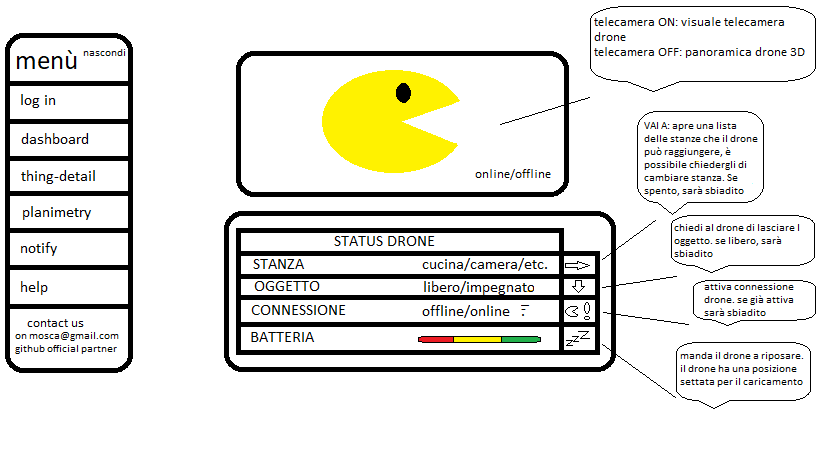
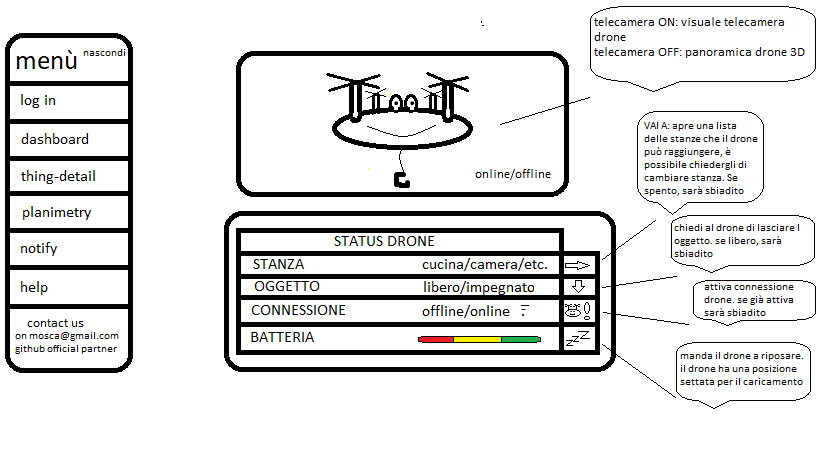
page form update

Changed region(s): [[0.3663, 0.1522, 0.58, 0.4261], [0.6716, 0.6696, 0.7021, 0.7]]

diff --git a/CODE/style.css b/CODE/style.css
@@ -5,60 +5,117 @@
   
 }
 body {
-       background: rgb(7, 22, 105);
+       background: rgb(25, 49, 180);
 }
 img{
     width: 60%;
     height: 40%;
 }
+.menù{
+    border-collapse: collapse;
+    border-style: ridge;
+    float: left;
+    width: 15%;
+    background: rgb(185, 185, 190);
+}
+.link{
+    border-collapse: collapse;
+    border-style: solid;
+    height: 40px;
+    margin-top: 1%;
+    padding-top: 6%;
+    padding-left: 2%
+}
+.i{
+    padding-left: 10%
+}
+.m{
+    padding-left: 5%;
+    padding-top: 1%;
+}
 .png-table{
+       
        margin-top: 5%;
        margin-left: 25%;
        border-collapse: collapse;
        border-style: ridge;
-       width: 60%;
+       width: 50%;
        height: 40%;
-       background: rgb(85, 85, 87);
+       background: rgb(185, 185, 190);
 }
 .st-table{
        margin-left: 25%;
        margin-top: 5%;
        border-collapse: collapse;
        border-style: ridge;
-       width: 60%;
-       color: rgb(248, 244, 4);
-       background: rgb(85, 85, 87);
+       width: 50%;
+       color: rgb(26, 107, 182);
+       background: rgb(185, 185, 190);
 }
 .st-tr{
     margin-top: 1%;
     margin-left: 40%;
     margin-bottom: 2%;
 }
-.st-tr1{
+.stanza{
     border-style: ridge;
-    margin-left: 0.5%;
-    margin-right: 10%;
-    margin-bottom: 0.5%;
+    margin-right: 2%;
+    margin-left: 2%;
+    margin-bottom: 1%;
     background: rgb(0, 0, 0);
 }
-.st-tr2{
+.elemento{
+    width: 450px;
+    float: left;
+}
+.valore{
+    width: 142px;
+    float: left;
+}
+.bottone{
+    width: 50px;
+}
+.oggetto{
     border-style: ridge;
-    margin-left: 0.5%;
-    margin-right: 10%;
-    margin-bottom: 0.5%;
+    margin-left: 2%;
+    margin-right: 2%;
+    margin-bottom: 1%;
     background: rgb(0, 0, 0);
 }
-.st-tr3{
+.ogg1{
+    width: 50%;
+    float: left;
+}
+.ogg2{
+    margin-left: 70%;
+}
+.connessione{
     border-style: ridge;
-    margin-left: 0.5%;
-    margin-right: 10%;
-    margin-bottom: 0.5%;
+    margin-left: 2%;
+    margin-right: 2%;
+    margin-bottom: 1%;
     background: rgb(0, 0, 0);
 }
-.st-tr4{
+.conn1{
+    width: 50%;
+    float: left;
+
+}
+.conn2{
+    margin-left: 70%;
+}
+.batteria{
     border-style: ridge;
-    margin-left: 0.5%;
-    margin-right: 10%;
-    margin-bottom: 0.5%;
+    margin-left: 2%;
+    margin-right: 2%;
+    margin-bottom: 2%;
     background: rgb(0, 0, 0);
+}
+.batt1{
+    width: 50%;
+    float: left;
+
+}
+.batt2{
+    margin-left: 70%;
 }

diff --git a/CODE/index.html b/CODE/index.html
@@ -12,30 +12,47 @@
 </head>
 
 <body>
+    <div class="menù">
+       <p class="m"> MENU'</p>
+        <div class="link"><a href=""><b>log in</b></a></div>
+        <div class="link"><a href=""><b>dashboard</b></a></div>
+        <div class="link"><a href=""><b>thigs detail</b></a></div>
+        <div class="link"><a href=""><b>planimetry</b></a></div>
+        <div class="link"><a href=""><b>notify</b></a></div>
+        <div class="link"><a href=""><b>help</b></a></div>
+        <p class="i">contact us on
+        mosca@gmail.com<br>
+        Github official partner</p>
+    </div>
     <div class="png-table">
         <div class="png-tr">
-            <img m src="Imgdrone.png" alt="drone1" id="drone">
+            <img m src="drone2.png" alt="drone1" id="drone">
         </div>
     </div>
     <div class="st-table">
         <div class="st-tr">
             <div class="st-td"><b>STATUS DRONE</b></div>
         </div>
-        <div class="st-tr1">
-            <div class="st-td"><b>Stanza</b></div>
-            <div class="stanza" align="center"></div>
+        <div class="stanza">
+            <div class="elemento"><b>Stanza</b></div>
+            <div id="stanza" class="valore">cucina</div>
+            <button class="bottone">go</button>
+
         </div>
-        <div class="st-tr2">
-            <div class="st-td"><b>Oggetto</b></div>
-            <div class="oggetto" align="center"></div>
+        <div class="oggetto">
+            <div class="elemento"><b>Oggetto</b></div>
+            <div id="oggetto" class="valore">libero</div>
+            <button class="bottone">push</button>
         </div>
-        <div class="st-tr3">
-            <div class="st-td"><b>Connessione</b></div>
-            <div class="connessione" align="center"></div>
+        <div class="connessione">
+            <div class="elemento"><b>Connessione</b></div>
+            <div id="connessione" class="valore">offline</div>
+            <button class="bottone">conn</button>
         </div>
-        <div class="st-tr4">
-            <div class="st-td"><b>Batteria</b></div>
-            <div class="batteria" align="center"></div>
+        <div class="batteria">
+            <div class="elemento"><b>Batteria</b></div>
+            <div id="batteria" class="valore">[------------]</div>
+            <button class="bottone">rest</button>
         </div>
 </body>
 
